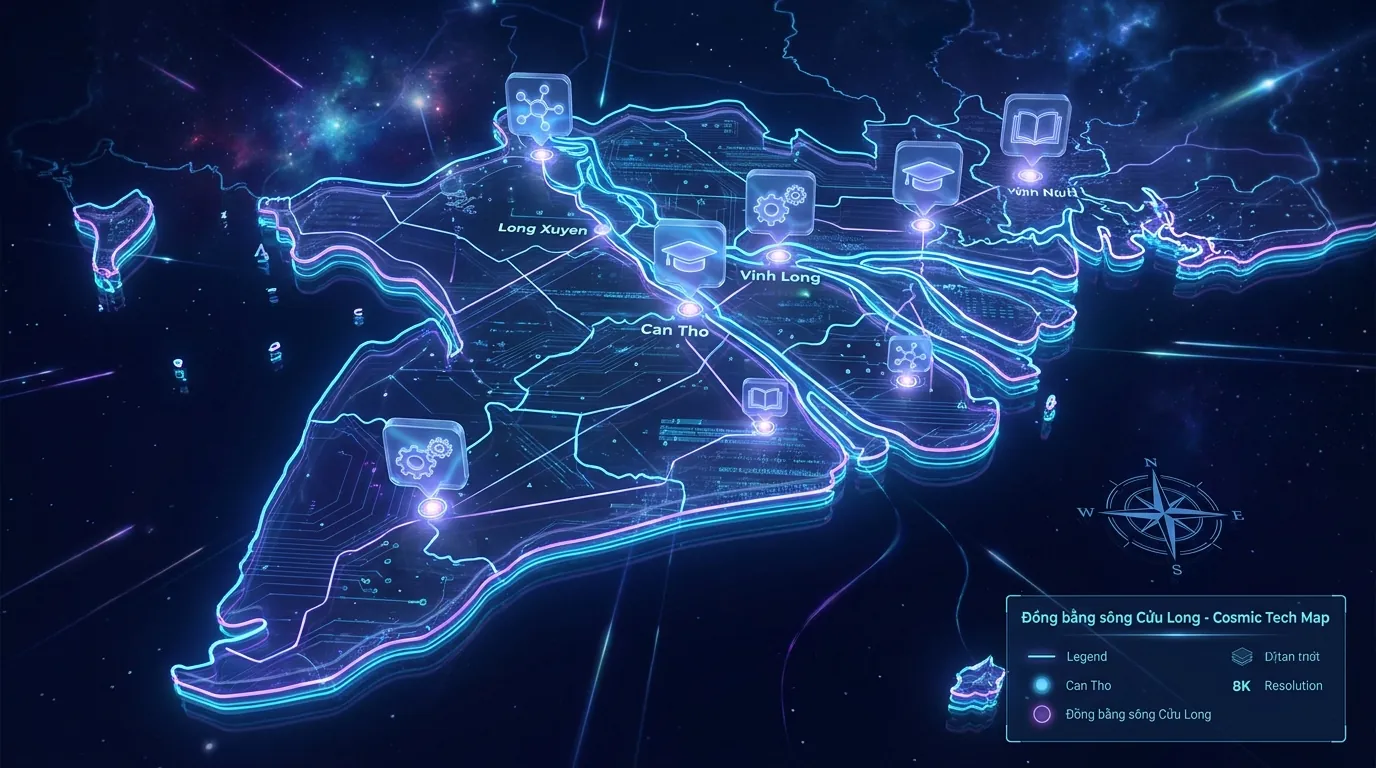
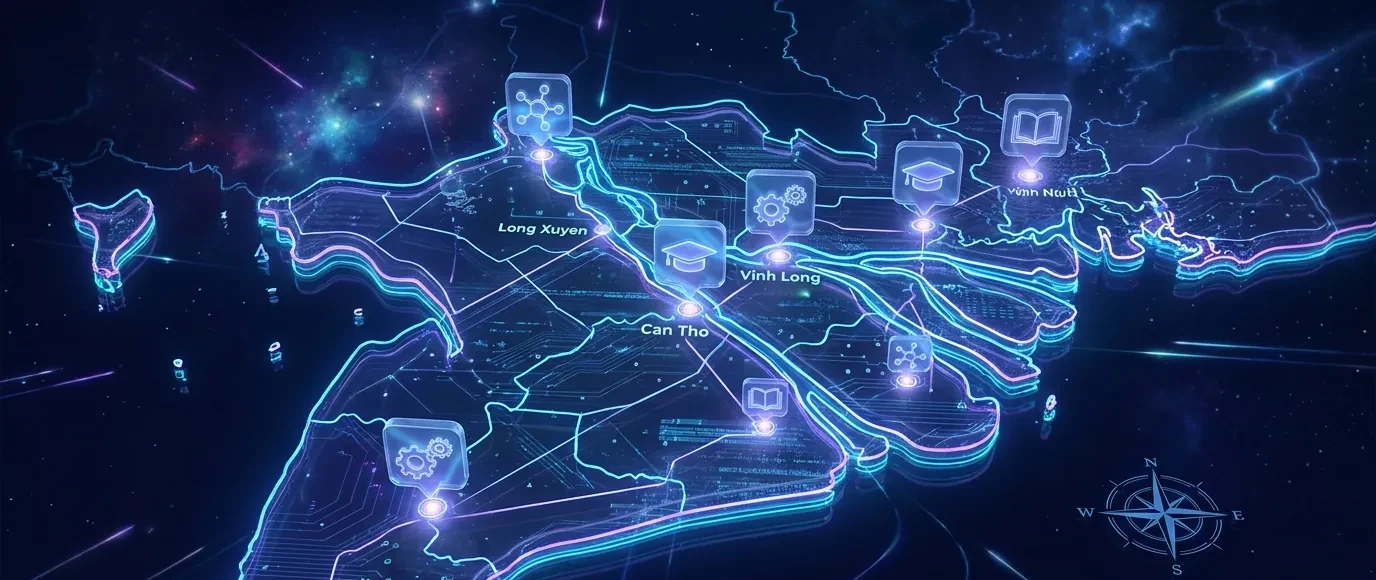
Gộp thẻ giảng viên vào khối đầu trang, sửa các lỗi bố cục
Thẻ giảng viên lặp lại đúng câu chào, đúng tên tác giả của khối đầu trang
và thêm một hình Hương thứ hai trên cùng một màn hình. Gộp vào làm một:
tên, chức danh, câu tiếng Pháp và lời nhắn nay nằm chung với tiêu đề và
số liệu, chỉ còn một nhân vật. Trang chủ ngắn lại đáng kể.

Kèm theo:
- Cột nội dung đứng giữa vùng đọc thay vì dính sát thanh dọc bên trái;
  lề hai bên trước là 16/84px, nay 34/34px.
- Bản đồ chìm hẳn ở nửa trái để không chạy xuyên qua tiêu đề, và cắt bỏ
  dải chú thích ở đáy ảnh gốc vốn lộ ra như lỗi in.
- Nhân vật dừng đúng mép trong khối, không còn cụt bàn chân.
- Chân trang lùi xuống để nút tour nổi không che dòng địa chỉ thư.
- Ba bước mở đầu của tour trỏ vào ba phần của khối đầu trang thay vì trỏ
  vào thẻ đã bỏ.

Kiểm tra bằng trình duyệt thật, cả nền sáng và tối, máy tính và điện
thoại: không tràn ngang, không tệp nào lỗi, không lỗi console, tour vẫn
chạy đủ 9 bước và hiện thẻ chốt ở cả hai kích thước màn hình.

diff --git a/assets/css/style.css b/assets/css/style.css
@@ -199,7 +199,7 @@ code {
 .hidden { display: none !important; }
 
 /* Thẻ kính mờ — nền của hầu hết khối nội dung */
-.glass, .panel, .teacher, .mode-card, .question-card, .result-hero,
+.glass, .panel, .mode-card, .question-card, .result-hero,
 .kpi, .chapter-item, .history-item, .review-item, .preview-item {
   background: var(--glass);
   -webkit-backdrop-filter: blur(var(--blur));
@@ -464,12 +464,15 @@ code {
   pointer-events: none;
 }
 html[data-theme="dark"] .hero__map { opacity: .55; mix-blend-mode: screen; }
+/* Bản đồ phải chìm hẳn ở nửa trái, nếu không các đường sáng của nó chạy
+   xuyên qua tiêu đề làm chữ khó đọc. Nửa phải để lộ dần cho thấy hình. */
 .hero__veil {
   position: absolute;
   inset: 0;
   background: linear-gradient(100deg,
-              color-mix(in srgb, var(--bg) 72%, transparent) 0%,
-              color-mix(in srgb, var(--bg) 30%, transparent) 62%,
+              color-mix(in srgb, var(--bg) 88%, transparent) 0%,
+              color-mix(in srgb, var(--bg) 78%, transparent) 42%,
+              color-mix(in srgb, var(--bg) 34%, transparent) 74%,
               transparent 100%);
   pointer-events: none;
 }
@@ -532,14 +535,18 @@ html[data-theme="dark"] .hero__map { opacity: .55; mix-blend-mode: screen; }
   color: var(--text);
   text-align: center;
 }
+/* Khoá chiều cao chứ không khoá bề ngang: mỗi tư thế một tỷ lệ khác nhau,
+   khoá bề ngang thì nhân vật cao thấp nhấp nhô khi đổi ảnh. */
 .hero__huong {
   position: relative;
   z-index: 1;
   flex: 0 0 auto;
-  width: 150px;
-  height: auto;
+  height: 300px;
+  width: auto;
   filter: drop-shadow(0 12px 30px var(--glow));
-  margin-bottom: -1.7rem;
+  /* Khối đầu trang cắt phần tràn, nên nhân vật phải dừng đúng mép trong,
+     không thò xuống dưới — trước đây bị cụt mất bàn chân. */
+  margin-bottom: 0;
 }
 @media (prefers-reduced-motion: no-preference) {
   .hero__huong { animation: floaty 6s ease-in-out infinite; }
@@ -574,66 +581,30 @@ html[data-theme="dark"] .hero__map { opacity: .55; mix-blend-mode: screen; }
 .stat b { display: block; font-size: 1.35rem; font-family: var(--display); font-weight: 800; }
 .stat span { font-size: .7rem; color: var(--muted); }
 
-/* ---------------- Giới thiệu giảng viên ---------------- */
-/* Nhân vật đứng nép góc phải để phần chữ trải hết bề ngang.
-   Thẻ đủ cao để nhìn thấy trọn người từ đầu tới chân, không cắt cụt. */
-.teacher {
-  position: relative;
-  display: flex;
-  align-items: center;           /* chữ căn giữa theo chiều cao cho cân với người */
-  border-radius: var(--radius);
-  padding: 1.1rem 1.2rem;
-  margin-bottom: 1.2rem;
-  box-shadow: var(--shadow-sm);
-  overflow: hidden;
-  min-height: 288px;
+/* ---------------- Lời giới thiệu trong khối đầu trang ----------------
+   Trước đây có thêm một thẻ giảng viên riêng ngay bên dưới, nhưng nó lặp
+   lại đúng câu chào, đúng tên tác giả và thêm một hình Hương thứ hai trên
+   cùng một màn hình. Gộp cả vào đây: một khối, một nhân vật, không lặp. */
+.hero__role {
+  margin: .45rem 0 0;
+  color: var(--muted);
+  font-size: .84rem;
 }
-.teacher__photo {
-  position: absolute;
-  right: 1.1rem;
-  bottom: 10px;                  /* chạm đất trong thẻ, không tràn ra ngoài mép */
-  width: auto;
-  pointer-events: none;
-}
-.teacher__photo::after {
-  content: "";
-  position: absolute;
-  left: 50%;
-  bottom: -4px;
-  transform: translateX(-50%);
-  width: 88%;
-  height: 15px;
-  border-radius: 50%;
-  background: radial-gradient(ellipse, var(--glow) 0%, transparent 70%);
-}
-.teacher__photo img {
-  height: 268px;
-  width: auto;
-  display: block;
-  filter: drop-shadow(0 10px 22px var(--glow));
-}
-/* Chừa chỗ cho người đứng bên phải: ảnh cao 268px, tỉ lệ 549/1142 nên
-   rộng khoảng 129px, cộng lề phải 1.1rem và một khoảng thở. */
-.teacher__body { min-width: 0; flex: 1 1 auto; padding-right: 162px; }
-.teacher__greeting {
-  margin: 0 0 .15rem;
-  font-size: 1.06rem;
-  font-weight: 700;
-  font-family: var(--display);
-  color: var(--primary);
-}
-.teacher__name { margin: 0; font-weight: 700; font-size: .95rem; }
-.teacher__role { margin: 0 0 .4rem; color: var(--muted); font-size: .82rem; }
-.teacher__note { margin: 0 0 .5rem; font-size: .88rem; color: var(--text-soft); }
-.teacher .author-link { margin-top: 0; font-size: .84rem; padding: .32rem .8rem; }
-.teacher__fr {
-  margin: .5rem 0;
+.hero__fr {
+  margin: .55rem 0;
   padding: .12rem 0 .12rem .7rem;
   border-left: 2px solid color-mix(in srgb, var(--secondary) 60%, transparent);
   font-family: var(--serif);
   font-style: italic;
   font-size: .95rem;
   color: var(--secondary);
+}
+.hero__note {
+  margin: 0 0 1rem;
+  max-width: 44ch;
+  font-size: .89rem;
+  line-height: 1.55;
+  color: var(--text-soft);
 }
 
 /* ---------------- Mode cards ---------------- */
@@ -1620,14 +1591,23 @@ input[type="number"]:focus, input[type="file"]:focus {
 @media (min-width: 1100px) {
   .sidenav { display: flex; }
   .botnav { display: none; }
-  .container, .footer { margin-left: 232px; }
+  /* Thanh dọc chiếm 232px bên trái. Nếu chỉ đẩy lề trái đúng 232px thì cột
+     nội dung dính sát thanh và dồn hết khoảng trống sang phải. Chia đôi phần
+     dư của khoảng còn lại để cột đứng giữa vùng đọc thật sự. */
+  .container, .footer {
+    margin-left: calc(232px + max(0px, (100vw - 232px - 980px) / 2));
+    margin-right: auto;
+  }
+  .container { padding-bottom: 5rem; }   /* chừa chỗ cho nút tour nổi ở góc */
   .topbar__inner { max-width: none; padding-left: 1.2rem; padding-right: 1.2rem; }
 }
 
 /* Màn hẹp: thanh dưới chiếm chỗ, chừa đệm để không che nội dung */
 @media (max-width: 1099px) {
   .container { padding-bottom: 5.5rem; }
-  .footer { padding-bottom: 6rem; }
+  /* Nút tour nổi ở 4.6rem và cao chừng 2.4rem, nên chân trang phải lùi quá
+     mốc đó — trước đây nút che mất dòng địa chỉ thư. */
+  .footer { padding-bottom: 8rem; }
   .tour-fab { bottom: 4.6rem; }
   .toast-wrap { bottom: 4.8rem; }
   .tour-panel { bottom: 4.6rem; }
@@ -1650,10 +1630,8 @@ input[type="number"]:focus, input[type="file"]:focus {
   .brand__text small { display: none; }
   .import-grid { grid-template-columns: 1fr; }
   textarea { min-height: 190px; }
-  .teacher { display: flex; flex-direction: column-reverse; align-items: center; text-align: center; gap: .6rem; min-height: 0; }
-  .teacher__photo { position: static; bottom: auto; }
-  .teacher__photo img { height: 250px; }
-  .teacher__body { padding-right: 0; }
+  .hero__note { max-width: none; margin-bottom: .7rem; }
+  .hero__fr { border-left: 0; padding-left: 0; }
   .tour-fab { padding: .5rem .85rem .5rem .5rem; font-size: .8rem; }
   .tour-panel { bottom: 4.4rem; padding: .8rem .85rem; padding-right: .85rem; }
   .tour-panel__huong { display: none; }
@@ -1663,7 +1641,7 @@ input[type="number"]:focus, input[type="file"]:focus {
 
 /* Máy yếu / người dùng tắt hiệu ứng: bỏ kính mờ cho đỡ giật */
 @media (prefers-reduced-transparency: reduce) {
-  .glass, .panel, .teacher, .mode-card, .question-card, .result-hero,
+  .glass, .panel, .mode-card, .question-card, .result-hero,
   .kpi, .chapter-item, .history-item, .review-item, .preview-item,
   .topbar, .tour-panel {
     background: var(--surface);

diff --git a/index.html b/index.html
@@ -158,6 +158,9 @@
           <span data-i18n="home.subject">Khởi sự doanh nghiệp</span>
         </h1>
         <p class="hero__sub" data-i18n="home.author">Biên soạn: NCS. Đỗ Thùy Hương</p>
+        <p class="hero__role" data-i18n="teacher.role">Giảng viên · Tác giả ngân hàng câu hỏi</p>
+        <p class="hero__fr" lang="fr" data-i18n="teacher.fr">Bonjour ! Je m'appelle Hương.</p>
+        <p class="hero__note" data-i18n="teacher.note"></p>
         <div class="hero__stats">
           <div class="stat"><b id="statTotal">0</b><span data-i18n="home.stat.total">câu hỏi</span></div>
           <div class="stat"><b id="statChapters">0</b><span data-i18n="home.stat.chapters">chương</span></div>
@@ -167,22 +170,8 @@
       </div>
       <div class="hero__mascot">
         <p class="hero__bubble" data-i18n="teacher.greeting">Chào bạn, cùng ôn bài nhé!</p>
-        <img class="hero__huong" src="assets/img/huong-welcome.webp" width="659" height="1075"
-             loading="lazy" decoding="async" alt="" aria-hidden="true">
-      </div>
-    </div>
-
-    <div class="teacher">
-      <div class="teacher__photo">
-        <img src="assets/img/huong-tablet.webp" width="549" height="1142" loading="lazy" decoding="async"
-             data-i18n-attr="alt:teacher.alt" alt="">
-      </div>
-      <div class="teacher__body">
-        <p class="teacher__greeting" data-i18n="teacher.greeting">Chào bạn, cùng ôn bài nhé!</p>
-        <p class="teacher__name" data-i18n="teacher.name">NCS. Đỗ Thùy Hương</p>
-        <p class="teacher__role" data-i18n="teacher.role">Giảng viên · Tác giả ngân hàng câu hỏi</p>
-        <p class="teacher__fr" lang="fr" data-i18n="teacher.fr">Bonjour ! Je m'appelle Hương.</p>
-        <p class="teacher__note" data-i18n="teacher.note"></p>
+        <img class="hero__huong" src="assets/img/huong-tablet.webp" width="549" height="1142"
+             loading="lazy" decoding="async" data-i18n-attr="alt:teacher.alt" alt="">
       </div>
     </div>
 

diff --git a/assets/js/tour.js b/assets/js/tour.js
@@ -15,9 +15,11 @@
   /* Mỗi bước gắn với một vùng trên trang; thiếu vùng thì bước đó được bỏ qua.
      `pose` chọn tư thế nhân vật đứng cạnh bảng thoại. */
   var STEPS = [
-    { key: 'tour.s0', target: '.teacher', lang: 'fr', pose: 'welcome' },   // lời chào tiếng Pháp
+    // Thẻ giảng viên đã gộp vào khối đầu trang, nên ba bước mở đầu trỏ vào
+    // ba phần khác nhau của khối ấy thay vì trỏ chung một thẻ.
+    { key: 'tour.s0', target: '.hero__mascot', lang: 'fr', pose: 'welcome' },  // lời chào tiếng Pháp
     { key: 'tour.s1', target: '.hero', pose: 'welcome' },
-    { key: 'tour.s2', target: '.teacher', pose: 'stand' },
+    { key: 'tour.s2', target: '.hero__note', pose: 'stand' },
     { key: 'tour.s3', target: '.modes', pose: 'point' },
     { key: 'tour.s4', target: '.modes [data-mode="import"]', pose: 'tablet' },
     { key: 'tour.s5', target: '#chapterList', pose: 'point' },

diff --git a/sw.js b/sw.js
@@ -4,7 +4,7 @@
    Đổi CACHE_VERSION mỗi lần phát hành bản mới để trình duyệt
    tải lại toàn bộ tài nguyên thay vì dùng bản đã lưu.
    ========================================================= */
-const CACHE_VERSION = 'enquiz-v18';
+const CACHE_VERSION = 'enquiz-v19';
 
 const SHELL = [
   './',
